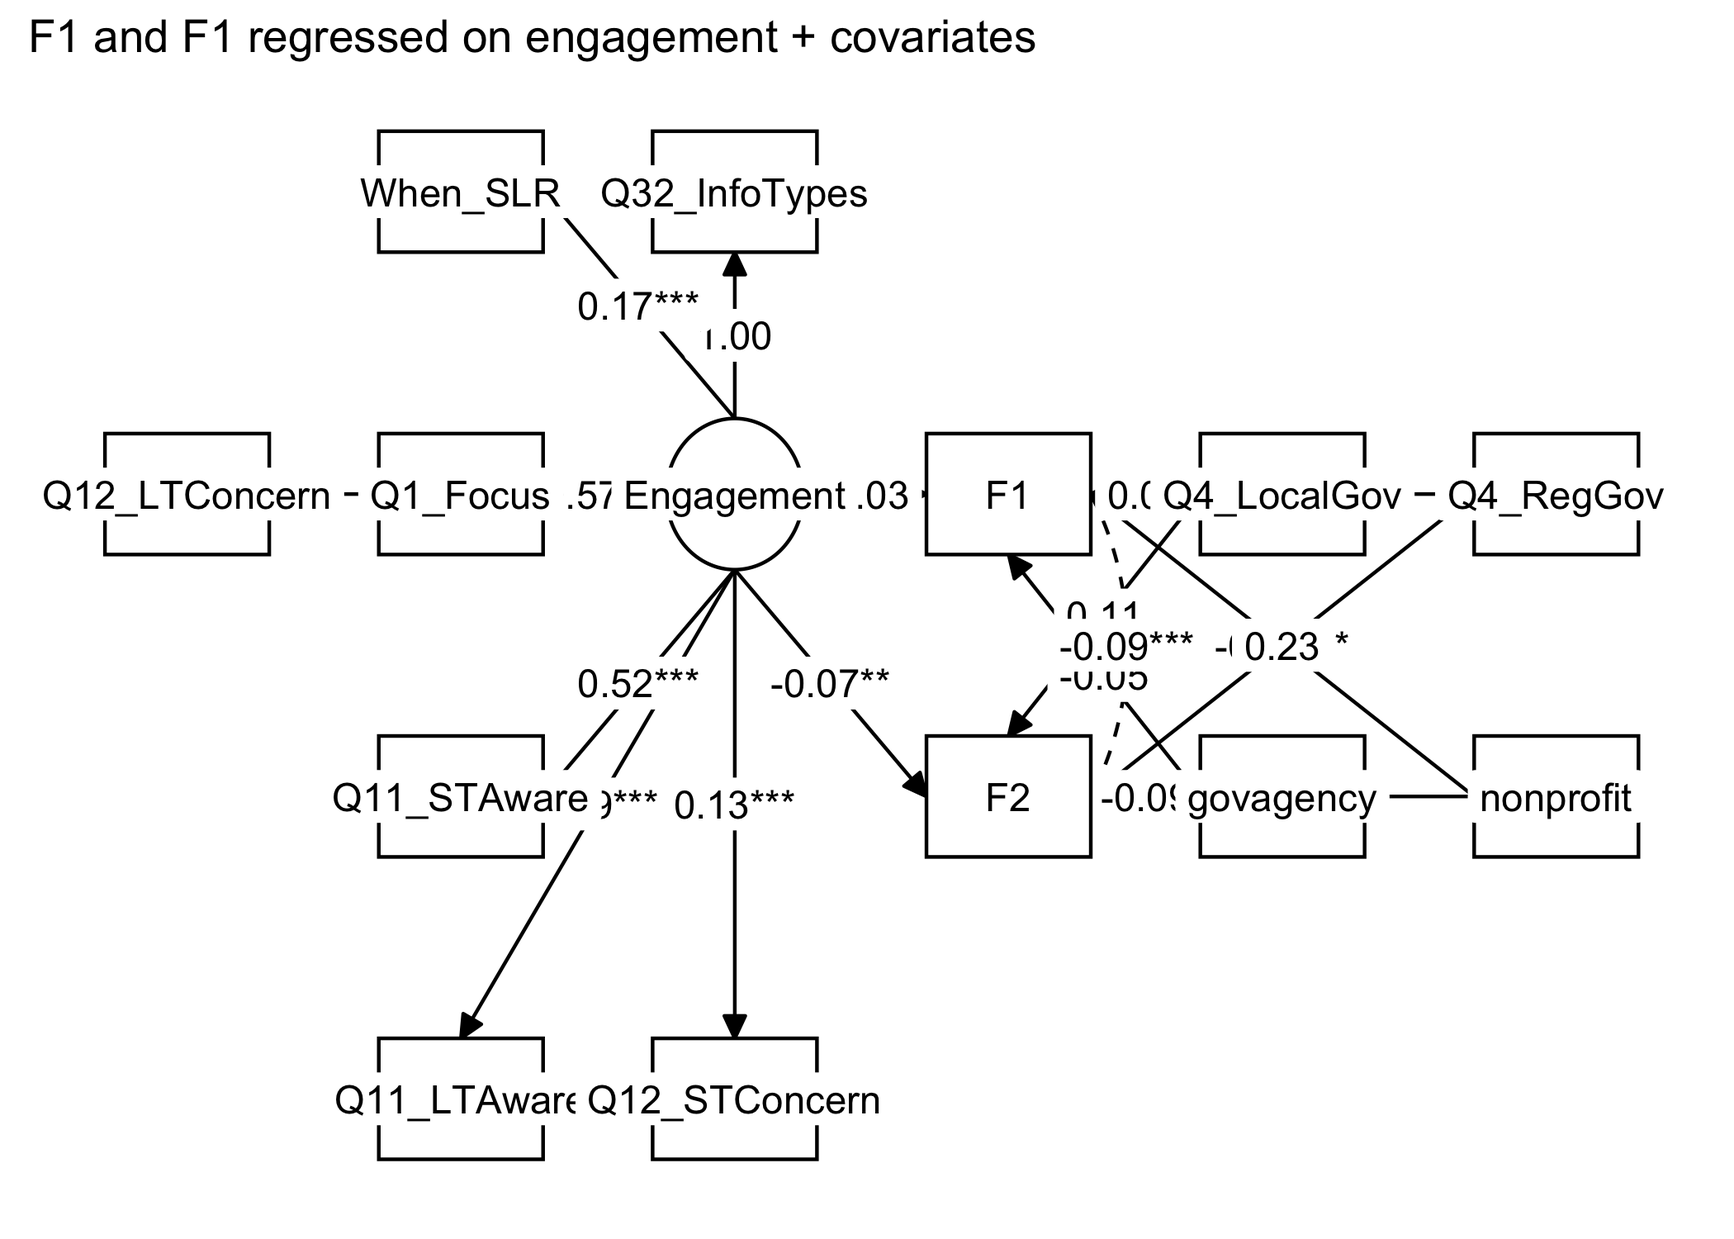
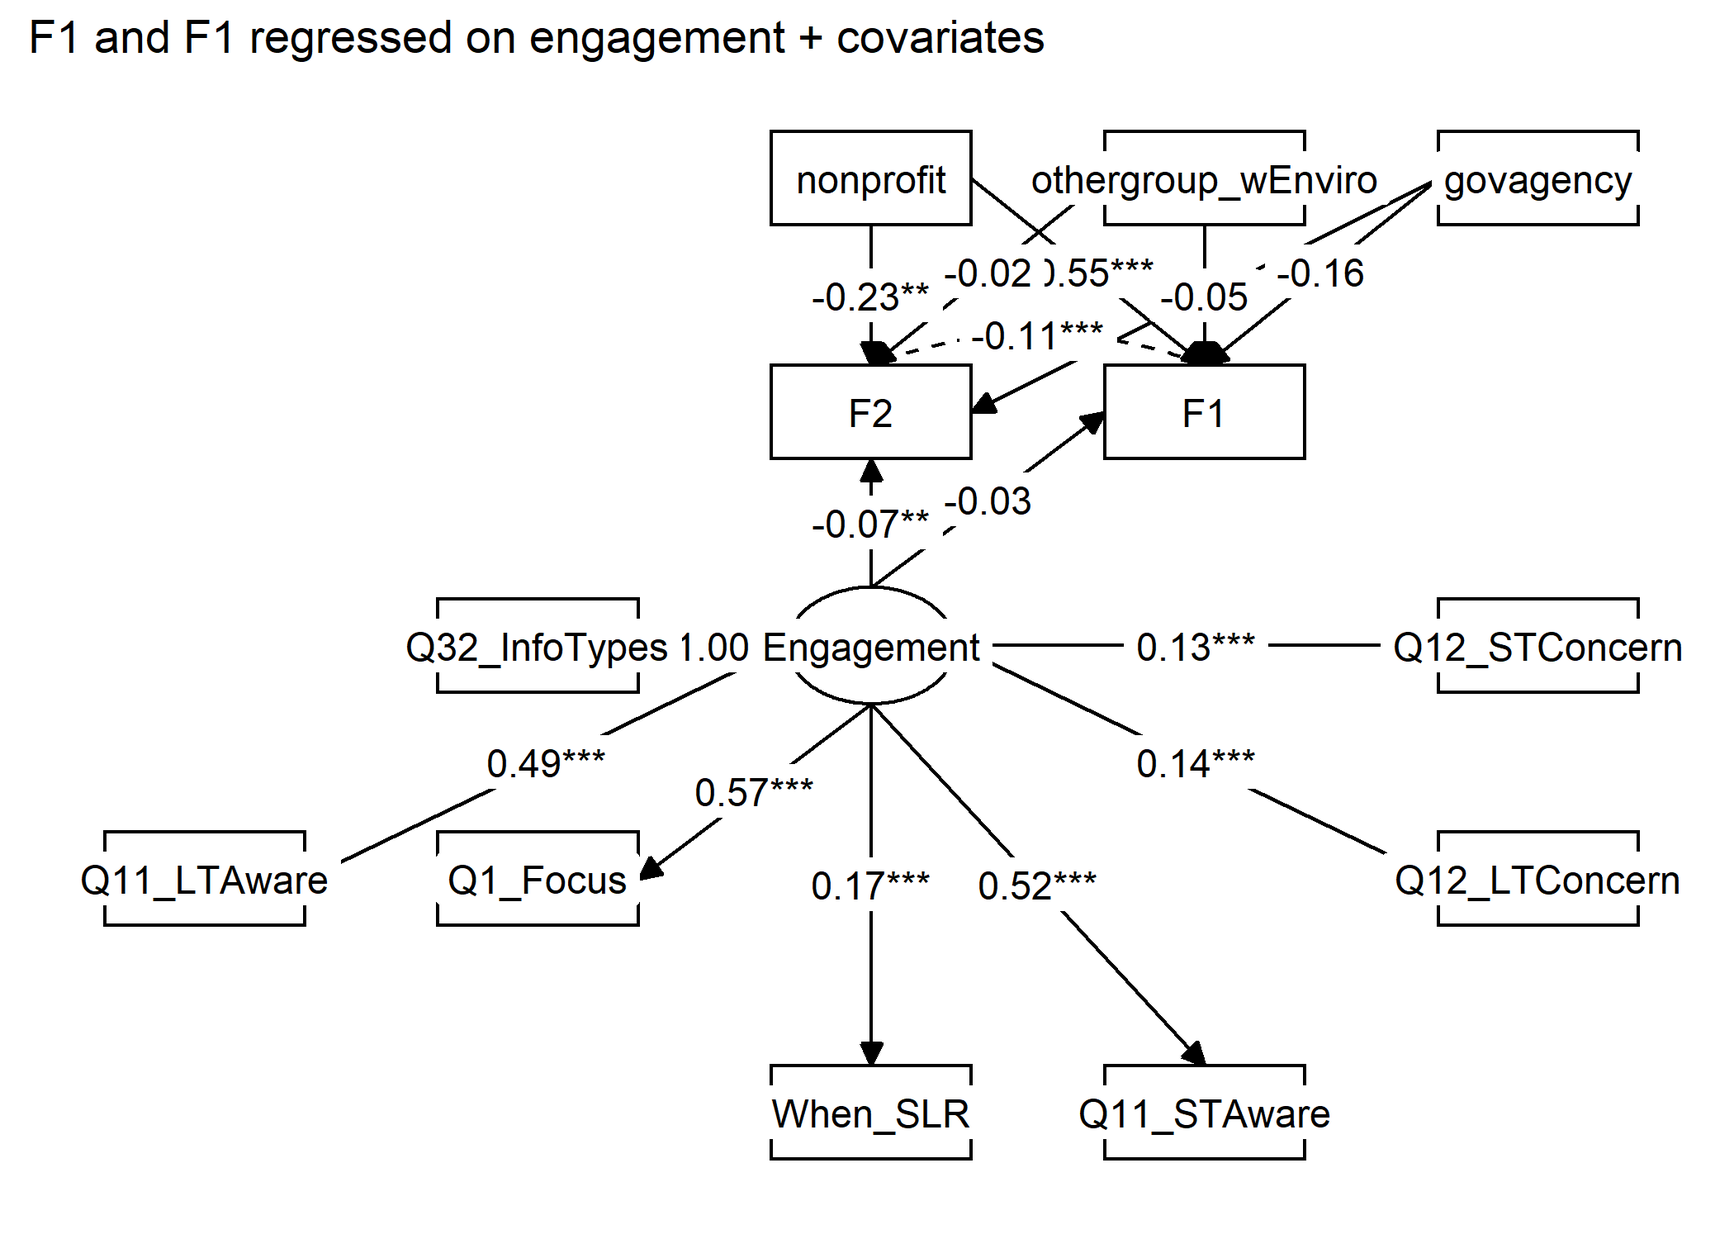
recategorize actors and rerun SEMs

diff --git a/output/tables/correlation_tests.html b/output/tables/correlation_tests.html
@@ -1,39 +1,39 @@
 
 <table style="text-align:center"><tr><td colspan="4" style="border-bottom: 1px solid black"></td></tr><tr><td style="text-align:left"></td><td>item</td><td>F1</td><td>F2</td></tr>
-<tr><td colspan="4" style="border-bottom: 1px solid black"></td></tr><tr><td style="text-align:left">1</td><td>Q1_Focus</td><td>-0.048</td><td>-0.027</td></tr>
-<tr><td style="text-align:left">2</td><td>Q16_Risk_Agree</td><td>-0.029</td><td>-0.039</td></tr>
-<tr><td style="text-align:left">3</td><td>Q17_Action_Agree</td><td>0.038</td><td>-0.018</td></tr>
-<tr><td style="text-align:left">4</td><td>Q4_Fed</td><td>0.037</td><td>-0.1*</td></tr>
-<tr><td style="text-align:left">5</td><td>Q4_State</td><td>-0.024</td><td>0.031</td></tr>
-<tr><td style="text-align:left">6</td><td>Q4_RegGov</td><td>0.03</td><td>0.059</td></tr>
-<tr><td style="text-align:left">7</td><td>Q4_LocalGov</td><td>0.076*</td><td>0.067*</td></tr>
-<tr><td style="text-align:left">8</td><td>Q4_WaterSD</td><td>0.102*</td><td>-0.014</td></tr>
+<tr><td colspan="4" style="border-bottom: 1px solid black"></td></tr><tr><td style="text-align:left">1</td><td>Q1_Focus</td><td>-0.047</td><td>-0.034</td></tr>
+<tr><td style="text-align:left">2</td><td>Q16_Risk_Agree</td><td>-0.028</td><td>-0.029</td></tr>
+<tr><td style="text-align:left">3</td><td>Q17_Action_Agree</td><td>0.021</td><td>-0.008</td></tr>
+<tr><td style="text-align:left">4</td><td>Q4_Fed</td><td>0000</td><td>-0.095*</td></tr>
+<tr><td style="text-align:left">5</td><td>Q4_State</td><td>-0.027</td><td>0.039</td></tr>
+<tr><td style="text-align:left">6</td><td>Q4_RegGov</td><td>0.047</td><td>0.054</td></tr>
+<tr><td style="text-align:left">7</td><td>Q4_LocalGov</td><td>0.085*</td><td>0.051</td></tr>
+<tr><td style="text-align:left">8</td><td>Q4_WaterSD</td><td>0.056</td><td>-0.01</td></tr>
 <tr><td style="text-align:left">9</td><td>Q4_EnviroSD</td><td>0.029</td><td>-0.063*</td></tr>
-<tr><td style="text-align:left">10</td><td>Q4_Enviro</td><td>-0.004</td><td>-0.028</td></tr>
-<tr><td style="text-align:left">11</td><td>Q4_Trade</td><td>-0.013</td><td>0.007</td></tr>
-<tr><td style="text-align:left">12</td><td>Q4_Ed</td><td>-0.058</td><td>0.018</td></tr>
-<tr><td style="text-align:left">13</td><td>Q4_Multistake</td><td>-0.027</td><td>0.008</td></tr>
-<tr><td style="text-align:left">14</td><td>Q4_Multijuris</td><td>0.011</td><td>0.001</td></tr>
-<tr><td style="text-align:left">15</td><td>Q4_Political</td><td>-0.028</td><td>0.04</td></tr>
-<tr><td style="text-align:left">16</td><td>Q4_CBO</td><td>-0.074*</td><td>-0.001</td></tr>
-<tr><td style="text-align:left">17</td><td>Q4_NGO</td><td>-0.127*</td><td>-0.086*</td></tr>
-<tr><td style="text-align:left">18</td><td>Q8_JobTasks</td><td>-0.078*</td><td>0.013</td></tr>
-<tr><td style="text-align:left">19</td><td>Q32_InfoTypes</td><td>-0.026</td><td>-0.072*</td></tr>
-<tr><td style="text-align:left">20</td><td>Q11_STAware</td><td>-0.001</td><td>-0.061*</td></tr>
-<tr><td style="text-align:left">21</td><td>Q11_LTAware</td><td>-0.043</td><td>-0.039</td></tr>
-<tr><td style="text-align:left">22</td><td>Q12_STConcern</td><td>-0.106*</td><td>-0.071*</td></tr>
-<tr><td style="text-align:left">23</td><td>Q12_LTConcern</td><td>-0.11*</td><td>-0.014</td></tr>
-<tr><td style="text-align:left">24</td><td>Q20_HumRes</td><td>-0.046</td><td>0.031</td></tr>
-<tr><td style="text-align:left">25</td><td>Q20_FinRes</td><td>-0.028</td><td>0.002</td></tr>
-<tr><td style="text-align:left">26</td><td>Q20_ExpCollab</td><td>0.007</td><td>0.004</td></tr>
-<tr><td style="text-align:left">27</td><td>Q20_StakeOpp</td><td>0.056</td><td>-0.077*</td></tr>
-<tr><td style="text-align:left">28</td><td>Q20_PolLead</td><td>-0.02</td><td>-0.04</td></tr>
-<tr><td style="text-align:left">29</td><td>Q20_SLRUncertain</td><td>0.067*</td><td>0.051</td></tr>
-<tr><td style="text-align:left">30</td><td>Q20_SciInfo</td><td>0.055</td><td>0.007</td></tr>
-<tr><td style="text-align:left">31</td><td>Q20_OrgLead</td><td>-0.05</td><td>-0.013</td></tr>
-<tr><td style="text-align:left">32</td><td>Q20_OverallPlan</td><td>0.042</td><td>0.067*</td></tr>
-<tr><td style="text-align:left">33</td><td>Q20_Permits</td><td>0.119*</td><td>-0.089*</td></tr>
-<tr><td style="text-align:left">34</td><td>Q20_PubSupport</td><td>0.018</td><td>-0.011</td></tr>
-<tr><td style="text-align:left">35</td><td>Q20_CBORelation</td><td>-0.124*</td><td>0.037</td></tr>
-<tr><td style="text-align:left">36</td><td>Q20_Sum</td><td>0.029</td><td>0.01</td></tr>
+<tr><td style="text-align:left">10</td><td>Q4_Enviro</td><td>-0.017</td><td>-0.03</td></tr>
+<tr><td style="text-align:left">11</td><td>Q4_Trade</td><td>0.003</td><td>0.002</td></tr>
+<tr><td style="text-align:left">12</td><td>Q4_Ed</td><td>-0.03</td><td>0.009</td></tr>
+<tr><td style="text-align:left">13</td><td>Q4_Multistake</td><td>-0.009</td><td>0.005</td></tr>
+<tr><td style="text-align:left">14</td><td>Q4_Multijuris</td><td>0.027</td><td>-0.004</td></tr>
+<tr><td style="text-align:left">15</td><td>Q4_Political</td><td>-0.012</td><td>0.043</td></tr>
+<tr><td style="text-align:left">16</td><td>Q4_CBO</td><td>-0.079*</td><td>0.003</td></tr>
+<tr><td style="text-align:left">17</td><td>Q4_NGO</td><td>-0.128*</td><td>-0.075*</td></tr>
+<tr><td style="text-align:left">18</td><td>Q8_JobTasks</td><td>-0.069*</td><td>0.013</td></tr>
+<tr><td style="text-align:left">19</td><td>Q32_InfoTypes</td><td>-0.033</td><td>-0.07*</td></tr>
+<tr><td style="text-align:left">20</td><td>Q11_STAware</td><td>-0.006</td><td>-0.062*</td></tr>
+<tr><td style="text-align:left">21</td><td>Q11_LTAware</td><td>-0.043</td><td>-0.044</td></tr>
+<tr><td style="text-align:left">22</td><td>Q12_STConcern</td><td>-0.108*</td><td>-0.059*</td></tr>
+<tr><td style="text-align:left">23</td><td>Q12_LTConcern</td><td>-0.101*</td><td>-0.008</td></tr>
+<tr><td style="text-align:left">24</td><td>Q20_HumRes</td><td>-0.041</td><td>0.03</td></tr>
+<tr><td style="text-align:left">25</td><td>Q20_FinRes</td><td>-0.01</td><td>-0.007</td></tr>
+<tr><td style="text-align:left">26</td><td>Q20_ExpCollab</td><td>0.003</td><td>0.011</td></tr>
+<tr><td style="text-align:left">27</td><td>Q20_StakeOpp</td><td>0.018</td><td>-0.067*</td></tr>
+<tr><td style="text-align:left">28</td><td>Q20_PolLead</td><td>-0.021</td><td>-0.03</td></tr>
+<tr><td style="text-align:left">29</td><td>Q20_SLRUncertain</td><td>0.075*</td><td>0.042</td></tr>
+<tr><td style="text-align:left">30</td><td>Q20_SciInfo</td><td>0.061*</td><td>-0.017</td></tr>
+<tr><td style="text-align:left">31</td><td>Q20_OrgLead</td><td>-0.037</td><td>-0.021</td></tr>
+<tr><td style="text-align:left">32</td><td>Q20_OverallPlan</td><td>0.056</td><td>0.059</td></tr>
+<tr><td style="text-align:left">33</td><td>Q20_Permits</td><td>0.08*</td><td>-0.095*</td></tr>
+<tr><td style="text-align:left">34</td><td>Q20_PubSupport</td><td>-0.006</td><td>0.013</td></tr>
+<tr><td style="text-align:left">35</td><td>Q20_CBORelation</td><td>-0.121*</td><td>0.039</td></tr>
+<tr><td style="text-align:left">36</td><td>Q20_Sum</td><td>0.027</td><td>0.008</td></tr>
 <tr><td colspan="4" style="border-bottom: 1px solid black"></td></tr></table>

diff --git a/output/tables/sem_model_V2_10-7.html b/output/tables/sem_model_V2_10-7.html
@@ -1,0 +1,54 @@
+<table style="padding-right:20px;padding-left:20px;">
+<tr><td></td><td colspan = '4'; align = 'center'>Model</td></tr> 
+<tr><td></td><td colspan = '1'; align = 'center'>Estimate</td><td colspan = '1'; align = 'center'>Std. Err.</td><td colspan = '1'; align = 'center'>z</td><td colspan = '1'; align = 'center'>p</td></tr>
+<tr><td></td><td colspan = '4'; align = 'center'><span style="text-decoration: underline;">Factor Loadings</span></td></tr> <tr><td colspan = '1'; align = 'left'><span style="text-decoration: underline;">Engagement</span></td></tr>
+<tr><td>Q32.InfoTypes</td><td>1.00<sup>+</sup></td><td></td><td></td><td></td></tr>
+<tr><td>Q1.Focus</td><td>0.57</td><td>0.06</td><td>9.15</td><td>.000</td></tr>
+<tr><td>When.SLR</td><td>0.17</td><td>0.04</td><td>4.64</td><td>.000</td></tr>
+<tr><td>Q11.STAware</td><td>0.52</td><td>0.05</td><td>11.00</td><td>.000</td></tr>
+<tr><td>Q11.LTAware</td><td>0.49</td><td>0.04</td><td>10.99</td><td>.000</td></tr>
+<tr><td>Q12.LTConcern</td><td>0.14</td><td>0.02</td><td>6.55</td><td>.000</td></tr>
+<tr><td>Q12.STConcern</td><td>0.13</td><td>0.03</td><td>4.51</td><td>.000</td></tr>
+<tr><td></td><td colspan = '4'; align = 'center'><span style="text-decoration: underline;">Regression Slopes</span></td></tr> <tr><td colspan = '1'; align = 'left'><span style="text-decoration: underline;">F1</span></td></tr>
+<tr><td>Engagement</td><td>-0.03</td><td>0.03</td><td>-1.01</td><td>.314</td></tr>
+<tr><td>nonprofit</td><td>-0.55</td><td>0.12</td><td>-4.63</td><td>.000</td></tr>
+<tr><td>govagency</td><td>-0.16</td><td>0.11</td><td>-1.37</td><td>.172</td></tr>
+<tr><td>enviro</td><td>-0.22</td><td>0.17</td><td>-1.30</td><td>.194</td></tr>
+<tr><td>othergroup</td><td>-0.13</td><td>0.09</td><td>-1.44</td><td>.150</td></tr>
+ <tr><td colspan = '1'; align = 'left'><span style="text-decoration: underline;">F2</span></td></tr>
+<tr><td>Engagement</td><td>-0.07</td><td>0.02</td><td>-3.21</td><td>.001</td></tr>
+<tr><td>nonprofit</td><td>-0.23</td><td>0.09</td><td>-2.60</td><td>.009</td></tr>
+<tr><td>govagency</td><td>-0.05</td><td>0.09</td><td>-0.63</td><td>.526</td></tr>
+<tr><td>enviro</td><td>-0.16</td><td>0.13</td><td>-1.23</td><td>.217</td></tr>
+<tr><td>othergroup</td><td>-0.01</td><td>0.07</td><td>-0.08</td><td>.933</td></tr>
+<tr><td></td><td colspan = '4'; align = 'center'><span style="text-decoration: underline;">Residual Variances</span></td></tr>
+<tr><td>Q32.InfoTypes</td><td>7.06</td><td>0.39</td><td>17.90</td><td>.000</td></tr>
+<tr><td>Q1.Focus</td><td>1.56</td><td>0.09</td><td>17.50</td><td>.000</td></tr>
+<tr><td>When.SLR</td><td>1.18</td><td>0.06</td><td>18.54</td><td>.000</td></tr>
+<tr><td>Q11.STAware</td><td>0.14</td><td>0.02</td><td>6.98</td><td>.000</td></tr>
+<tr><td>Q11.LTAware</td><td>0.22</td><td>0.02</td><td>10.61</td><td>.000</td></tr>
+<tr><td>Q12.LTConcern</td><td>0.31</td><td>0.02</td><td>18.35</td><td>.000</td></tr>
+<tr><td>Q12.STConcern</td><td>0.67</td><td>0.04</td><td>18.55</td><td>.000</td></tr>
+<tr><td>F1</td><td>0.89</td><td>0.05</td><td>18.68</td><td>.000</td></tr>
+<tr><td>F2</td><td>0.50</td><td>0.03</td><td>18.62</td><td>.000</td></tr>
+<tr><td>nonprofit</td><td>0.12<sup>+</sup></td><td></td><td></td><td></td></tr>
+<tr><td>govagency</td><td>0.14<sup>+</sup></td><td></td><td></td><td></td></tr>
+<tr><td>enviro</td><td>0.05<sup>+</sup></td><td></td><td></td><td></td></tr>
+<tr><td>othergroup</td><td>0.24<sup>+</sup></td><td></td><td></td><td></td></tr>
+<tr><td></td><td colspan = '4'; align = 'center'><span style="text-decoration: underline;">Residual Covariances</span></td></tr>
+<tr><td>F1 w/F2</td><td>-0.11</td><td>0.03</td><td>-4.28</td><td>.000</td></tr>
+<tr><td>nonprofit w/govagency</td><td>-0.02<sup>+</sup></td><td></td><td></td><td></td></tr>
+<tr><td>nonprofit w/enviro</td><td>-0.01<sup>+</sup></td><td></td><td></td><td></td></tr>
+<tr><td>nonprofit w/othergroup</td><td>-0.06<sup>+</sup></td><td></td><td></td><td></td></tr>
+<tr><td>govagency w/enviro</td><td>-0.01<sup>+</sup></td><td></td><td></td><td></td></tr>
+<tr><td>govagency w/othergroup</td><td>-0.07<sup>+</sup></td><td></td><td></td><td></td></tr>
+<tr><td>enviro w/othergroup</td><td>-0.02<sup>+</sup></td><td></td><td></td><td></td></tr>
+<tr><td></td><td colspan = '4'; align = 'center'><span style="text-decoration: underline;">Latent Variances</span></td></tr>
+<tr><td>Engagement</td><td>1.68</td><td>0.30</td><td>5.64</td><td>.000</td></tr>
+<tr><td></td><td colspan = '4'; align = 'center'><span style="text-decoration: underline;">Fit Indices</span></td></tr>
+<tr><td>&chi;<sup>2</sup></td><td>401.43(54)</td><td></td><td></td><td>.000</td></tr>
+<tr><td>CFI</td><td>0.73</td><td></td><td></td><td></td></tr>
+<tr><td>TLI</td><td>0.64</td><td></td><td></td><td></td></tr>
+<tr><td>RMSEA</td><td>0.10</td><td></td><td></td><td></td></tr>
+<tr><td colspan = '5'; align = 'left'><sup>+</sup>Fixed parameter</td></tr>
+</table><br>

diff --git a/output/tables/sem_model_V1_10-7.html b/output/tables/sem_model_V1_10-7.html
@@ -1,0 +1,48 @@
+<table style="padding-right:20px;padding-left:20px;">
+<tr><td></td><td colspan = '4'; align = 'center'>Model</td></tr> 
+<tr><td></td><td colspan = '1'; align = 'center'>Estimate</td><td colspan = '1'; align = 'center'>Std. Err.</td><td colspan = '1'; align = 'center'>z</td><td colspan = '1'; align = 'center'>p</td></tr>
+<tr><td></td><td colspan = '4'; align = 'center'><span style="text-decoration: underline;">Factor Loadings</span></td></tr> <tr><td colspan = '1'; align = 'left'><span style="text-decoration: underline;">Engagement</span></td></tr>
+<tr><td>Q32.InfoTypes</td><td>1.00<sup>+</sup></td><td></td><td></td><td></td></tr>
+<tr><td>Q1.Focus</td><td>0.57</td><td>0.06</td><td>9.15</td><td>.000</td></tr>
+<tr><td>When.SLR</td><td>0.17</td><td>0.04</td><td>4.65</td><td>.000</td></tr>
+<tr><td>Q11.STAware</td><td>0.52</td><td>0.05</td><td>11.00</td><td>.000</td></tr>
+<tr><td>Q11.LTAware</td><td>0.49</td><td>0.04</td><td>10.99</td><td>.000</td></tr>
+<tr><td>Q12.LTConcern</td><td>0.14</td><td>0.02</td><td>6.55</td><td>.000</td></tr>
+<tr><td>Q12.STConcern</td><td>0.13</td><td>0.03</td><td>4.51</td><td>.000</td></tr>
+<tr><td></td><td colspan = '4'; align = 'center'><span style="text-decoration: underline;">Regression Slopes</span></td></tr> <tr><td colspan = '1'; align = 'left'><span style="text-decoration: underline;">F1</span></td></tr>
+<tr><td>Engagement</td><td>-0.03</td><td>0.03</td><td>-1.02</td><td>.309</td></tr>
+<tr><td>nonprofit</td><td>-0.55</td><td>0.12</td><td>-4.63</td><td>.000</td></tr>
+<tr><td>govagency</td><td>-0.16</td><td>0.11</td><td>-1.37</td><td>.172</td></tr>
+<tr><td>othergroup.wEnviro</td><td>-0.14</td><td>0.09</td><td>-1.58</td><td>.113</td></tr>
+ <tr><td colspan = '1'; align = 'left'><span style="text-decoration: underline;">F2</span></td></tr>
+<tr><td>Engagement</td><td>-0.07</td><td>0.02</td><td>-3.23</td><td>.001</td></tr>
+<tr><td>nonprofit</td><td>-0.23</td><td>0.09</td><td>-2.60</td><td>.009</td></tr>
+<tr><td>govagency</td><td>-0.05</td><td>0.09</td><td>-0.63</td><td>.528</td></tr>
+<tr><td>othergroup.wEnviro</td><td>-0.02</td><td>0.07</td><td>-0.35</td><td>.730</td></tr>
+<tr><td></td><td colspan = '4'; align = 'center'><span style="text-decoration: underline;">Residual Variances</span></td></tr>
+<tr><td>Q32.InfoTypes</td><td>7.06</td><td>0.39</td><td>17.90</td><td>.000</td></tr>
+<tr><td>Q1.Focus</td><td>1.56</td><td>0.09</td><td>17.50</td><td>.000</td></tr>
+<tr><td>When.SLR</td><td>1.18</td><td>0.06</td><td>18.54</td><td>.000</td></tr>
+<tr><td>Q11.STAware</td><td>0.14</td><td>0.02</td><td>6.98</td><td>.000</td></tr>
+<tr><td>Q11.LTAware</td><td>0.22</td><td>0.02</td><td>10.61</td><td>.000</td></tr>
+<tr><td>Q12.LTConcern</td><td>0.31</td><td>0.02</td><td>18.35</td><td>.000</td></tr>
+<tr><td>Q12.STConcern</td><td>0.67</td><td>0.04</td><td>18.55</td><td>.000</td></tr>
+<tr><td>F1</td><td>0.89</td><td>0.05</td><td>18.68</td><td>.000</td></tr>
+<tr><td>F2</td><td>0.50</td><td>0.03</td><td>18.62</td><td>.000</td></tr>
+<tr><td>nonprofit</td><td>0.12<sup>+</sup></td><td></td><td></td><td></td></tr>
+<tr><td>govagency</td><td>0.14<sup>+</sup></td><td></td><td></td><td></td></tr>
+<tr><td>othergroup.wEnviro</td><td>0.25<sup>+</sup></td><td></td><td></td><td></td></tr>
+<tr><td></td><td colspan = '4'; align = 'center'><span style="text-decoration: underline;">Residual Covariances</span></td></tr>
+<tr><td>F1 w/F2</td><td>-0.11</td><td>0.03</td><td>-4.26</td><td>.000</td></tr>
+<tr><td>nonprofit w/govagency</td><td>-0.02<sup>+</sup></td><td></td><td></td><td></td></tr>
+<tr><td>nonprofit w/othergroup.wEnviro</td><td>-0.07<sup>+</sup></td><td></td><td></td><td></td></tr>
+<tr><td>govagency w/othergroup.wEnviro</td><td>-0.07<sup>+</sup></td><td></td><td></td><td></td></tr>
+<tr><td></td><td colspan = '4'; align = 'center'><span style="text-decoration: underline;">Latent Variances</span></td></tr>
+<tr><td>Engagement</td><td>1.68</td><td>0.30</td><td>5.64</td><td>.000</td></tr>
+<tr><td></td><td colspan = '4'; align = 'center'><span style="text-decoration: underline;">Fit Indices</span></td></tr>
+<tr><td>&chi;<sup>2</sup></td><td>377.14(47)</td><td></td><td></td><td>.000</td></tr>
+<tr><td>CFI</td><td>0.74</td><td></td><td></td><td></td></tr>
+<tr><td>TLI</td><td>0.65</td><td></td><td></td><td></td></tr>
+<tr><td>RMSEA</td><td>0.10</td><td></td><td></td><td></td></tr>
+<tr><td colspan = '5'; align = 'left'><sup>+</sup>Fixed parameter</td></tr>
+</table><br>

diff --git a/output/tables/sem_model_V3_10-7.html b/output/tables/sem_model_V3_10-7.html
@@ -1,0 +1,48 @@
+<table style="padding-right:20px;padding-left:20px;">
+<tr><td></td><td colspan = '4'; align = 'center'>Model</td></tr> 
+<tr><td></td><td colspan = '1'; align = 'center'>Estimate</td><td colspan = '1'; align = 'center'>Std. Err.</td><td colspan = '1'; align = 'center'>z</td><td colspan = '1'; align = 'center'>p</td></tr>
+<tr><td></td><td colspan = '4'; align = 'center'><span style="text-decoration: underline;">Factor Loadings</span></td></tr> <tr><td colspan = '1'; align = 'left'><span style="text-decoration: underline;">Engagement</span></td></tr>
+<tr><td>Q32.InfoTypes</td><td>1.00<sup>+</sup></td><td></td><td></td><td></td></tr>
+<tr><td>Q1.Focus</td><td>0.57</td><td>0.06</td><td>9.15</td><td>.000</td></tr>
+<tr><td>When.SLR</td><td>0.17</td><td>0.04</td><td>4.64</td><td>.000</td></tr>
+<tr><td>Q11.STAware</td><td>0.52</td><td>0.05</td><td>11.00</td><td>.000</td></tr>
+<tr><td>Q11.LTAware</td><td>0.49</td><td>0.04</td><td>10.99</td><td>.000</td></tr>
+<tr><td>Q12.LTConcern</td><td>0.14</td><td>0.02</td><td>6.54</td><td>.000</td></tr>
+<tr><td>Q12.STConcern</td><td>0.13</td><td>0.03</td><td>4.50</td><td>.000</td></tr>
+<tr><td></td><td colspan = '4'; align = 'center'><span style="text-decoration: underline;">Regression Slopes</span></td></tr> <tr><td colspan = '1'; align = 'left'><span style="text-decoration: underline;">F1</span></td></tr>
+<tr><td>Engagement</td><td>-0.03</td><td>0.03</td><td>-0.94</td><td>.346</td></tr>
+<tr><td>noprofit</td><td>-0.46</td><td>0.11</td><td>-4.25</td><td>.000</td></tr>
+<tr><td>govagency</td><td>-0.16</td><td>0.12</td><td>-1.37</td><td>.170</td></tr>
+<tr><td>othergroup</td><td>-0.13</td><td>0.09</td><td>-1.44</td><td>.150</td></tr>
+ <tr><td colspan = '1'; align = 'left'><span style="text-decoration: underline;">F2</span></td></tr>
+<tr><td>Engagement</td><td>-0.07</td><td>0.02</td><td>-3.20</td><td>.001</td></tr>
+<tr><td>noprofit</td><td>-0.21</td><td>0.08</td><td>-2.61</td><td>.009</td></tr>
+<tr><td>govagency</td><td>-0.05</td><td>0.09</td><td>-0.64</td><td>.524</td></tr>
+<tr><td>othergroup</td><td>-0.01</td><td>0.07</td><td>-0.09</td><td>.932</td></tr>
+<tr><td></td><td colspan = '4'; align = 'center'><span style="text-decoration: underline;">Residual Variances</span></td></tr>
+<tr><td>Q32.InfoTypes</td><td>7.06</td><td>0.39</td><td>17.90</td><td>.000</td></tr>
+<tr><td>Q1.Focus</td><td>1.56</td><td>0.09</td><td>17.50</td><td>.000</td></tr>
+<tr><td>When.SLR</td><td>1.18</td><td>0.06</td><td>18.55</td><td>.000</td></tr>
+<tr><td>Q11.STAware</td><td>0.14</td><td>0.02</td><td>6.97</td><td>.000</td></tr>
+<tr><td>Q11.LTAware</td><td>0.22</td><td>0.02</td><td>10.61</td><td>.000</td></tr>
+<tr><td>Q12.LTConcern</td><td>0.31</td><td>0.02</td><td>18.35</td><td>.000</td></tr>
+<tr><td>Q12.STConcern</td><td>0.67</td><td>0.04</td><td>18.55</td><td>.000</td></tr>
+<tr><td>F1</td><td>0.89</td><td>0.05</td><td>18.68</td><td>.000</td></tr>
+<tr><td>F2</td><td>0.50</td><td>0.03</td><td>18.62</td><td>.000</td></tr>
+<tr><td>noprofit</td><td>0.16<sup>+</sup></td><td></td><td></td><td></td></tr>
+<tr><td>govagency</td><td>0.14<sup>+</sup></td><td></td><td></td><td></td></tr>
+<tr><td>othergroup</td><td>0.24<sup>+</sup></td><td></td><td></td><td></td></tr>
+<tr><td></td><td colspan = '4'; align = 'center'><span style="text-decoration: underline;">Residual Covariances</span></td></tr>
+<tr><td>F1 w/F2</td><td>-0.11</td><td>0.03</td><td>-4.24</td><td>.000</td></tr>
+<tr><td>noprofit w/govagency</td><td>-0.03<sup>+</sup></td><td></td><td></td><td></td></tr>
+<tr><td>noprofit w/othergroup</td><td>-0.08<sup>+</sup></td><td></td><td></td><td></td></tr>
+<tr><td>govagency w/othergroup</td><td>-0.07<sup>+</sup></td><td></td><td></td><td></td></tr>
+<tr><td></td><td colspan = '4'; align = 'center'><span style="text-decoration: underline;">Latent Variances</span></td></tr>
+<tr><td>Engagement</td><td>1.68</td><td>0.30</td><td>5.64</td><td>.000</td></tr>
+<tr><td></td><td colspan = '4'; align = 'center'><span style="text-decoration: underline;">Fit Indices</span></td></tr>
+<tr><td>&chi;<sup>2</sup></td><td>389.83(47)</td><td></td><td></td><td>.000</td></tr>
+<tr><td>CFI</td><td>0.73</td><td></td><td></td><td></td></tr>
+<tr><td>TLI</td><td>0.64</td><td></td><td></td><td></td></tr>
+<tr><td>RMSEA</td><td>0.10</td><td></td><td></td><td></td></tr>
+<tr><td colspan = '5'; align = 'left'><sup>+</sup>Fixed parameter</td></tr>
+</table><br>
